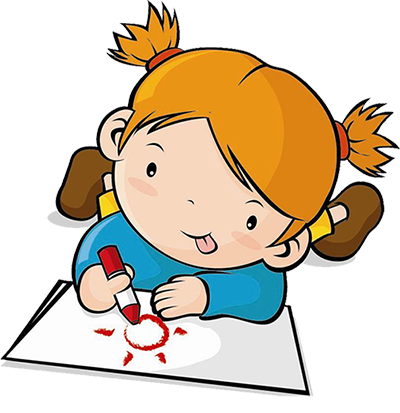
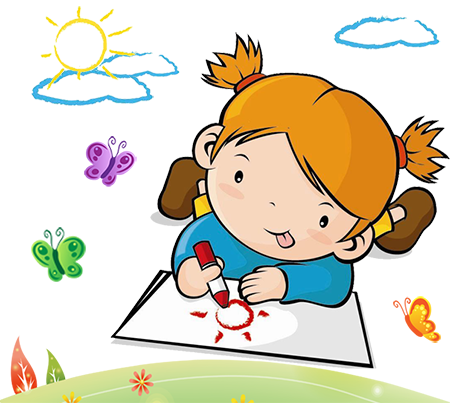
arreglos esteticos

diff --git a/css/style.css b/css/style.css
@@ -11149,20 +11149,20 @@ body {
   text-transform: capitalize;
 }
 
-.contenedor__global, .contenedor__contacto, .contenedor__cuidado, .contenedor__nosotros {
+.contenedor__global, .contenedor__actividades, .contenedor__contacto, .contenedor__cuidado, .contenedor__nosotros {
   display: flex;
   justify-content: space-evenly;
   height: 80.7vh;
   padding: 4rem 4rem 3rem 4rem;
   background-color: orange;
 }
-.contenedor__global .texto__global, .contenedor__contacto .texto__global, .contenedor__cuidado .texto__global, .contenedor__nosotros .texto__global {
+.contenedor__global .texto__global, .contenedor__actividades .texto__global, .contenedor__contacto .texto__global, .contenedor__cuidado .texto__global, .contenedor__nosotros .texto__global {
   text-align: left;
   line-height: 3;
   color: white;
   width: 25rem;
 }
-.contenedor__global .carousel__global, .contenedor__contacto .carousel__global, .contenedor__cuidado .carousel__global, .contenedor__nosotros .carousel__global {
+.contenedor__global .carousel__global, .contenedor__actividades .carousel__global, .contenedor__contacto .carousel__global, .contenedor__cuidado .carousel__global, .contenedor__nosotros .carousel__global {
   width: 30%;
   height: 30%;
 }
@@ -11179,6 +11179,12 @@ body {
   background-position: center;
 }
 
+.contenedor__actividades {
+  background-image: url(../img/fondoactividades.png);
+  background-size: cover;
+  background-position: center;
+}
+
 .carousel__global--nosotros {
   width: 36%;
   height: 36%;
@@ -11190,20 +11196,20 @@ body {
 }
 
 @media only screen and (max-width: 1080px) {
-  .contenedor__global, .contenedor__nosotros, .contenedor__cuidado, .contenedor__contacto {
+  .contenedor__global, .contenedor__nosotros, .contenedor__cuidado, .contenedor__contacto, .contenedor__actividades {
     flex-wrap: wrap;
     justify-content: space-around;
     align-items: center;
     padding-bottom: 8rem;
     height: 70rem;
   }
-  .contenedor__global .carousel__global, .contenedor__nosotros .carousel__global, .contenedor__cuidado .carousel__global, .contenedor__contacto .carousel__global {
+  .contenedor__global .carousel__global, .contenedor__nosotros .carousel__global, .contenedor__cuidado .carousel__global, .contenedor__contacto .carousel__global, .contenedor__actividades .carousel__global {
     width: 25rem;
   }
-  .contenedor__global .texto__global, .contenedor__nosotros .texto__global, .contenedor__cuidado .texto__global, .contenedor__contacto .texto__global {
+  .contenedor__global .texto__global, .contenedor__nosotros .texto__global, .contenedor__cuidado .texto__global, .contenedor__contacto .texto__global, .contenedor__actividades .texto__global {
     line-height: 2;
   }
-  .contenedor__global .texto__global h3, .contenedor__nosotros .texto__global h3, .contenedor__cuidado .texto__global h3, .contenedor__contacto .texto__global h3 {
+  .contenedor__global .texto__global h3, .contenedor__nosotros .texto__global h3, .contenedor__cuidado .texto__global h3, .contenedor__contacto .texto__global h3, .contenedor__actividades .texto__global h3 {
     width: 15rem;
   }
 
@@ -11212,23 +11218,23 @@ body {
   }
 }
 @media only screen and (max-width: 800px) {
-  .contenedor__global, .contenedor__nosotros, .contenedor__cuidado, .contenedor__contacto {
+  .contenedor__global, .contenedor__nosotros, .contenedor__cuidado, .contenedor__contacto, .contenedor__actividades {
     flex-direction: column;
     justify-content: space-between;
     align-items: center;
     padding: 1rem 1rem 1rem 1rem;
     height: auto;
   }
-  .contenedor__global .carousel__global, .contenedor__nosotros .carousel__global, .contenedor__cuidado .carousel__global, .contenedor__contacto .carousel__global {
+  .contenedor__global .carousel__global, .contenedor__nosotros .carousel__global, .contenedor__cuidado .carousel__global, .contenedor__contacto .carousel__global, .contenedor__actividades .carousel__global {
     width: 20rem;
     height: auto;
     margin-top: 2rem;
   }
-  .contenedor__global .texto__global, .contenedor__nosotros .texto__global, .contenedor__cuidado .texto__global, .contenedor__contacto .texto__global {
+  .contenedor__global .texto__global, .contenedor__nosotros .texto__global, .contenedor__cuidado .texto__global, .contenedor__contacto .texto__global, .contenedor__actividades .texto__global {
     line-height: 2;
     width: 20rem;
   }
-  .contenedor__global .texto__global h3, .contenedor__nosotros .texto__global h3, .contenedor__cuidado .texto__global h3, .contenedor__contacto .texto__global h3 {
+  .contenedor__global .texto__global h3, .contenedor__nosotros .texto__global h3, .contenedor__cuidado .texto__global h3, .contenedor__contacto .texto__global h3, .contenedor__actividades .texto__global h3 {
     width: 10rem;
   }
 
@@ -11279,6 +11285,9 @@ body {
   flex-wrap: wrap;
   justify-content: center;
   padding: 1rem;
+  background-image: url(../img/fondogaleria.png);
+  background-size: cover;
+  background-position: center;
   background-color: orange;
   color: white;
 }

diff --git a/actividades/index.html b/actividades/index.html
@@ -59,7 +59,7 @@
       <a href=""><img src="../img/face.png" /></a>
       <a href=""><img src="../img/insta.png" /></a>
     </nav>
-    <main class="contenedor__global">
+    <main class="contenedor__actividades">
       <section class="visita--box">
         <h6>VISITAS</h6>
         <img src="../img/visita.jpg" class="imagen__box" />

diff --git a/scss/_globals.scss b/scss/_globals.scss
@@ -68,6 +68,13 @@ body {
   @extend .contenedor__global;
 }
 
+.contenedor__actividades {
+  @extend .contenedor__global;
+  background-image: url(../img/fondoactividades.png);
+  background-size: cover;
+  background-position: center;
+}
+
 .carousel__global--nosotros {
   width: 36%;
   height: 36%;

diff --git a/scss/_galeria.scss b/scss/_galeria.scss
@@ -5,6 +5,9 @@
   flex-wrap: wrap;
   justify-content: center;
   padding: 1rem;
+  background-image: url(../img/fondogaleria.png);
+  background-size: cover;
+  background-position: center;
   background-color: orange;
   color: white;
 
